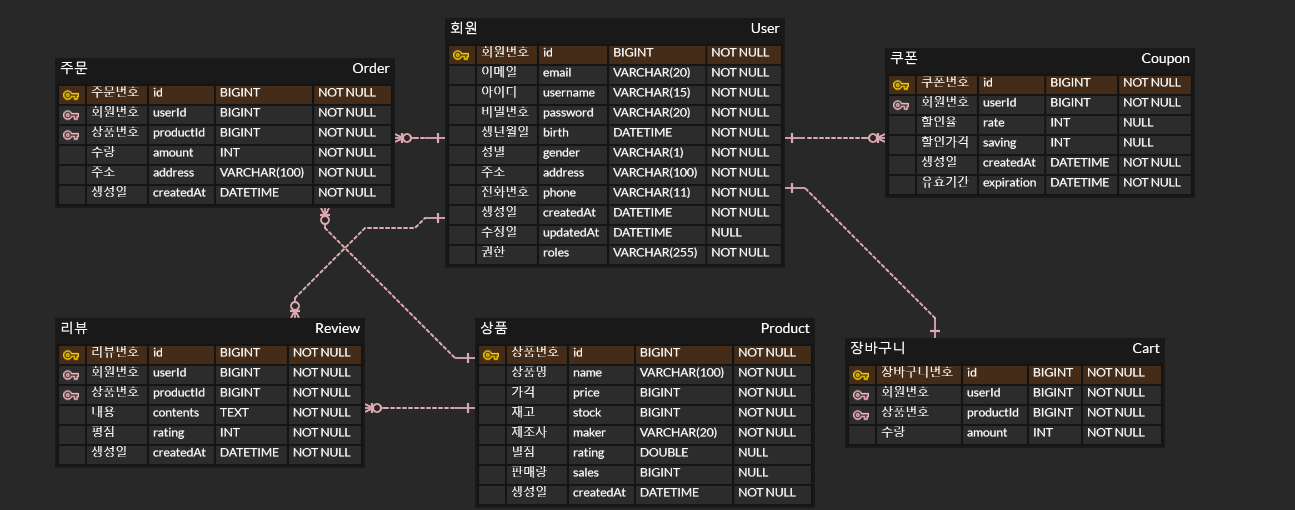
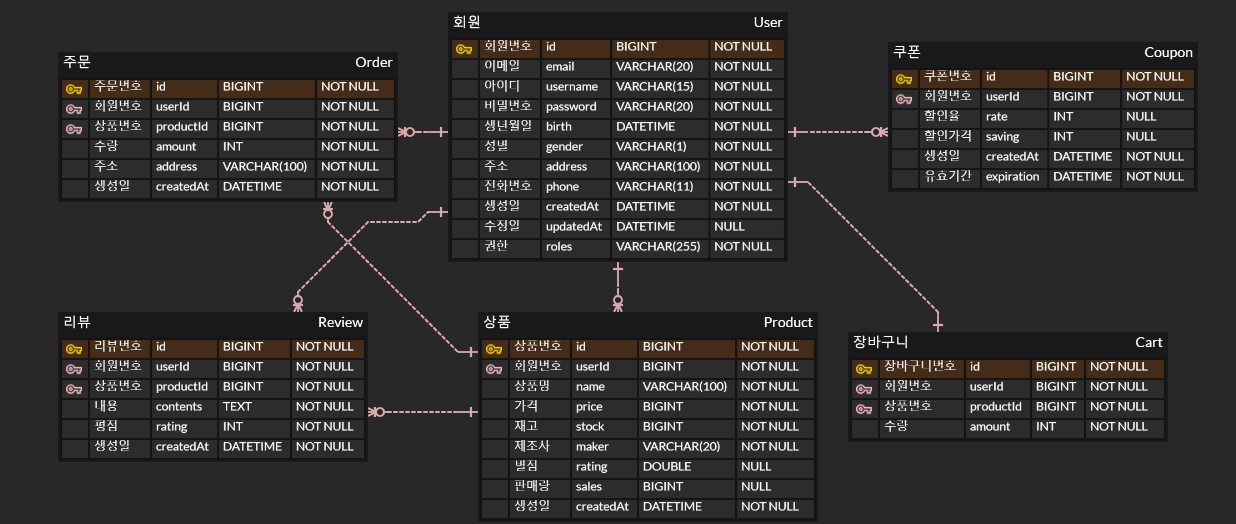
docs: 상품과 회원 다대일 관계로 erd 수정, 판매자의 상품 관리 기능을 추가

diff --git a/README.md b/README.md
@@ -43,6 +43,20 @@
     - 구매할 상품의 수량, 배송받을 주소를 입력해야 주문이 가능
     - 쿠폰 적용은 선택사항
 
+### 판매자의 상품 관리 기능
+
+- 상품 등록
+  - 등록할 상품의 상품명, 가격, 재고, 제조사를 입력해 상품 등록
+
+- 상품 수정
+  - 수정할 상품의 상품명, 가격, 재고, 제조사를 입력해 상품 수정
+
+- 상품 조회
+  - 등록한 모든 상품을 등록일 순으로 응답
+
+- 상품 삭제
+  - 삭제할 상품의 ID로 삭제를 수행
+
 ### 상품 장바구니 기능
 
 - 상품 담기
